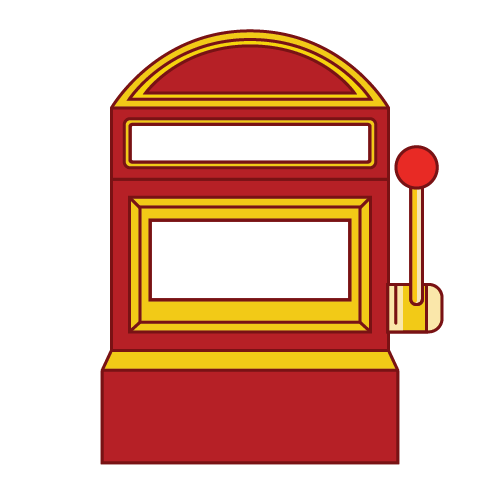
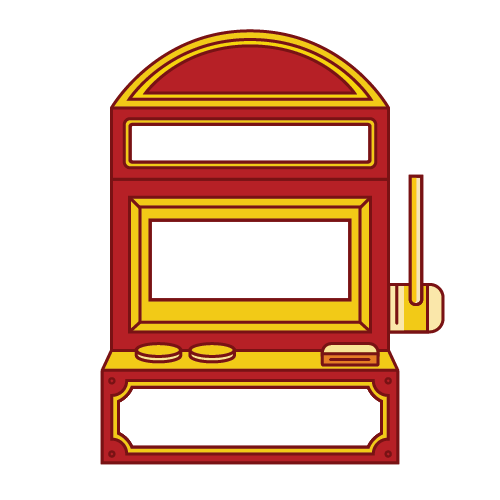
update wheel effect

Changed region(s): [[0.21, 0.66, 0.78, 0.93], [0.75, 0.27, 0.9, 0.66]]

diff --git a/scripts.js b/scripts.js
@@ -3,6 +3,16 @@
 function start() {
     document.getElementById('numb').style.animation = "numbdown 1.5s";
     document.getElementById('startbutton').style.display = "none";
+    document.getElementById('notibox').innerText = "Spinning..."
+    document.getElementById('gift').style.display = "none";
+    document.getElementById('giftbutton').style.display = "none";
+    var color = Math.floor(Math.random() * 6);
+    var colorlist = ["#064D78", "#1482C4", "#12782E", "#00C436", "#0C7867", "#0AC4A6"];
+    var tilelist = ["#DE977A", "#C4585A", "#DE977A", "#C4585A", "#DE977A", "#C4585A"];
+    document.getElementById('gift').style.backgroundColor = colorlist[color];
+    var tiles = document.getElementsByClassName('tile');
+    tiles[0].style.backgroundColor = tilelist[color];
+    tiles[1].style.backgroundColor = tilelist[color];
     var i;
     var count = 0;
     var check = 1;
@@ -10,20 +20,20 @@ function start() {
         if (check >= 0) {
             var b1 = document.getElementById('column1');
             var a1 = document.getElementsByClassName('row1');
-            i = Math.floor(Math.random() * 2);
-            b1.appendChild(a1[i]);
+            i = Math.floor(Math.random() * 5);
+            b1.prepend(a1[i]);
         }
         if (check >= -2) {
             var b2 = document.getElementById('column2');
             var a2 = document.getElementsByClassName('row2');
-            i = Math.floor(Math.random() * 2);
-            b2.appendChild(a2[i]);
+            i = Math.floor(Math.random() * 5);
+            b2.prepend(a2[i]);
         }
         if (check >= -4) {
             var b3 = document.getElementById('column3');
             var a3 = document.getElementsByClassName('row3');
-            i = Math.floor(Math.random() * 2);
-            b3.appendChild(a3[i]);
+            i = Math.floor(Math.random() * 5);
+            b3.prepend(a3[i]);
         }
         count ++;
         if (count >= 30 && count < 38 && check > 0) {
@@ -35,10 +45,24 @@ function start() {
                 if (check == -5) {
                     clearInterval(mainl);
                     document.getElementById('numb').style.animation = "";
-                    document.getElementById('startbutton').style.display = "block";
+                    //document.getElementById('startbutton').style.display = "block";
+                    document.getElementById('notibox').innerText = "Take your gift!";
+                    document.getElementById('gift').style.display = "block";
+                    document.getElementById('giftbutton').style.display = "block";
                 }
             }
             if (count == 38) check = 0;
         }
     }, 100);
+}
+
+function opengift() {
+    document.getElementById('gift').style.display = "none";
+    document.getElementById('giftbutton').style.display = "none";
+    document.getElementById('startbutton').style.display = "block";
+    document.getElementById('giftcontentbox').style.display = "block";
+}
+
+function closegift() {
+    document.getElementById('giftcontentbox').style.display = "none";
 }

diff --git a/index.html b/index.html
@@ -10,7 +10,7 @@
 </head>
 <body style="background-color: #FAE596;">
     <div id="columnbox">
-        <div id="column1" class="column">
+        <div id="column1" class="column" style="border-left-width: 0px;">
             <div id="row11" class="row1">
                 <p class="text">1</p>
             </div>
@@ -19,6 +19,12 @@
             </div>
             <div id="row13" class="row1">
                 <p class="text">2</p>
+            </div>
+            <div id="row14" class="row1">
+                <p class="text">3</p>
+            </div>
+            <div id="row15" class="row1">
+                <p class="text">4</p>
             </div>
         </div>
         <div id="column2" class="column" style="width: 70px;">
@@ -31,8 +37,14 @@
             <div id="row23" class="row2">
                 <p class="text">2</p>
             </div>
+            <div id="row24" class="row2">
+                <p class="text">3</p>
+            </div>
+            <div id="row25" class="row2">
+                <p class="text">4</p>
+            </div>
         </div>
-        <div id="column3" class="column">
+        <div id="column3" class="column" style="border-right-width: 0px;">
             <div id="row31" class="row3">
                 <p class="text">1</p>
             </div>
@@ -42,13 +54,30 @@
             <div id="row33" class="row3">
                 <p class="text">2</p>
             </div>
+            <div id="row34" class="row3">
+                <p class="text">3</p>
+            </div>
+            <div id="row35" class="row3">
+                <p class="text">4</p>
+            </div>
         </div>
         <div id="topcover" class="cover" style="top: 0;"></div>
         <div id="bottomcover" class="cover" style="bottom: 0;"></div>
     </div>
     <div id="machine" style="width: 500px; height: 500px; position: absolute; left: calc(50% - 250px); top: calc(50% - 260px);">
-        <img src="Resources/machine-02.png" style="position: absolute;">
+        <img src="Resources/giftnet-01.png" style="position: absolute;">
+        <p id="notibox">Pull the lever!</p>
+        <div id="gift" style="display: none;">
+            <div id="horitile" class="tile" style="width: 100px; height: 5px;"></div>
+            <div id="verttile" class="tile" style="width: 5px; height: 40px;"></div>
+        </div>
+        <img src="Resources/machine-01.png" style="position: absolute;">
         <img src="Resources/playnumb-01.png" id="numb" style="position: absolute;">
+        <div id="giftbutton" style="display: none; width: 100px; height: 40px; position: absolute; transform: translate(-50%, -50%); left: 50%; top: 85.3%; animation: giftbox 2s ease-in; background: transparent;" onclick="opengift();"></div>
         <div id="startbutton" onclick="start()"></div>
+    </div>
+    <div id="giftcontentbox" style="display: none;">
+        <div id="giftboxbackground" style="width: 100%; height: 100%;" onclick="closegift();"></div>
+        <div id="giftcontent"></div>
     </div>
 </body>

diff --git a/style.css b/style.css
@@ -1,23 +1,26 @@
 #columnbox {
-    background-color: #791214;
-    width: 212px;
+    background-color: #FAE596;
+    width: 208px;
     height: 244px;
     position: absolute;
     transform: translate(-50%, -50%);
     left: 50%;
     top: 50%;
+    overflow: hidden;
 }
 
 .column {
-    background-color: #791214;
+    background-color: #FAE596;
     float: left;
     width: 65px;
-    height: 240px;
+    height: 400px;
+    position: relative;
 
     border-style: solid;
     border-width: 2px;
     border-color: #791214;
     padding: 0px;
+    border-top-width: 0px;
 }
 
 .row1, .row3 {
@@ -25,6 +28,8 @@
     float: left;
     width: 65px;
     height: 80px;
+
+    animation: wheel 0.5s linear;
 }
 
 .row2 {
@@ -32,6 +37,8 @@
     float: left;
     width: 70px;
     height: 80px;
+
+    animation: wheel 0.5s linear;
 }
 
 .text {
@@ -45,9 +52,9 @@
 .cover {
     background-color: #FAE596;
     position: absolute;
-    transform: translate(-50%, 0%);
+    transform: translate(-50%, -1%);
     left: 50%;
-    width: 214px;
+    width: 210px;
     height: 80px;
 }
 
@@ -66,6 +73,82 @@
     cursor: pointer;
 }
 
+#notibox {
+    position: absolute;
+    transform: translate(-50%, -50%);
+    left: 50%;
+    top: 25%;
+
+    font-family: 'Segoe UI', Tahoma, Geneva, Verdana, sans-serif;
+    font-size: 16px;
+    font-weight: bold;
+    color: #791214;
+}
+
+#gift {
+    background-color:#12782E;
+    width: 100px;
+    height: 40px;
+    position: absolute;
+    transform: translate(-50%, -50%);
+    left: 50%;
+    top: 85.3%;
+
+    border-radius: 5px;
+    animation: giftbox 2s ease-in;
+}
+
+#giftbutton:hover {
+    cursor: pointer;
+}
+
+.tile {
+    position: absolute;
+    transform: translate(-50%, -50%);
+    top: 50%;
+    left: 50%;
+}
+
+#giftcontentbox {
+    width: 100vw;
+    height: 100vh;
+    background: transparent;
+    position: absolute;
+    left: 0%;
+    top: 0%;
+}
+
+#giftboxbackground:hover {
+    cursor: pointer;
+}
+
+#giftcontent {
+    width: 800px;
+    height: 500px;
+    background-color: #A2D9FA;
+    position: absolute;
+    transform: translate(-50%, -50%);
+    left: 50%;
+    top: 50%;
+
+    border-style: solid;
+    border-radius: 20px;
+    border-color: #799AAD;
+    border-width: 6px;
+
+    animation: giftcontent 0.5s linear;
+    animation-fill-mode: forwards;
+}
+
+@keyframes wheel {
+    0% {
+        height: 0;
+    }
+    100% {
+        height: 80px;
+    }
+}
+
 @keyframes numbdown {
     0% {
         top: 0px;
@@ -75,5 +158,35 @@
     }
     100% {
         top: 0px;
+    }
+}
+
+@keyframes giftbox {
+    0% {
+        top: 75%;
+    }
+    40% {
+        top: 85.3%;
+    }
+    60% {
+        top: 82%;
+    }
+    80% {
+        top: 85.3%;
+    }
+    90% {
+        top: 84%;
+    }
+    100% {
+        top: 85.3%;
+    }
+}
+
+@keyframes giftcontent {
+    0% {
+        opacity: 0;
+    }    
+    100% {
+        opacity: 1.0;
     }
 }
